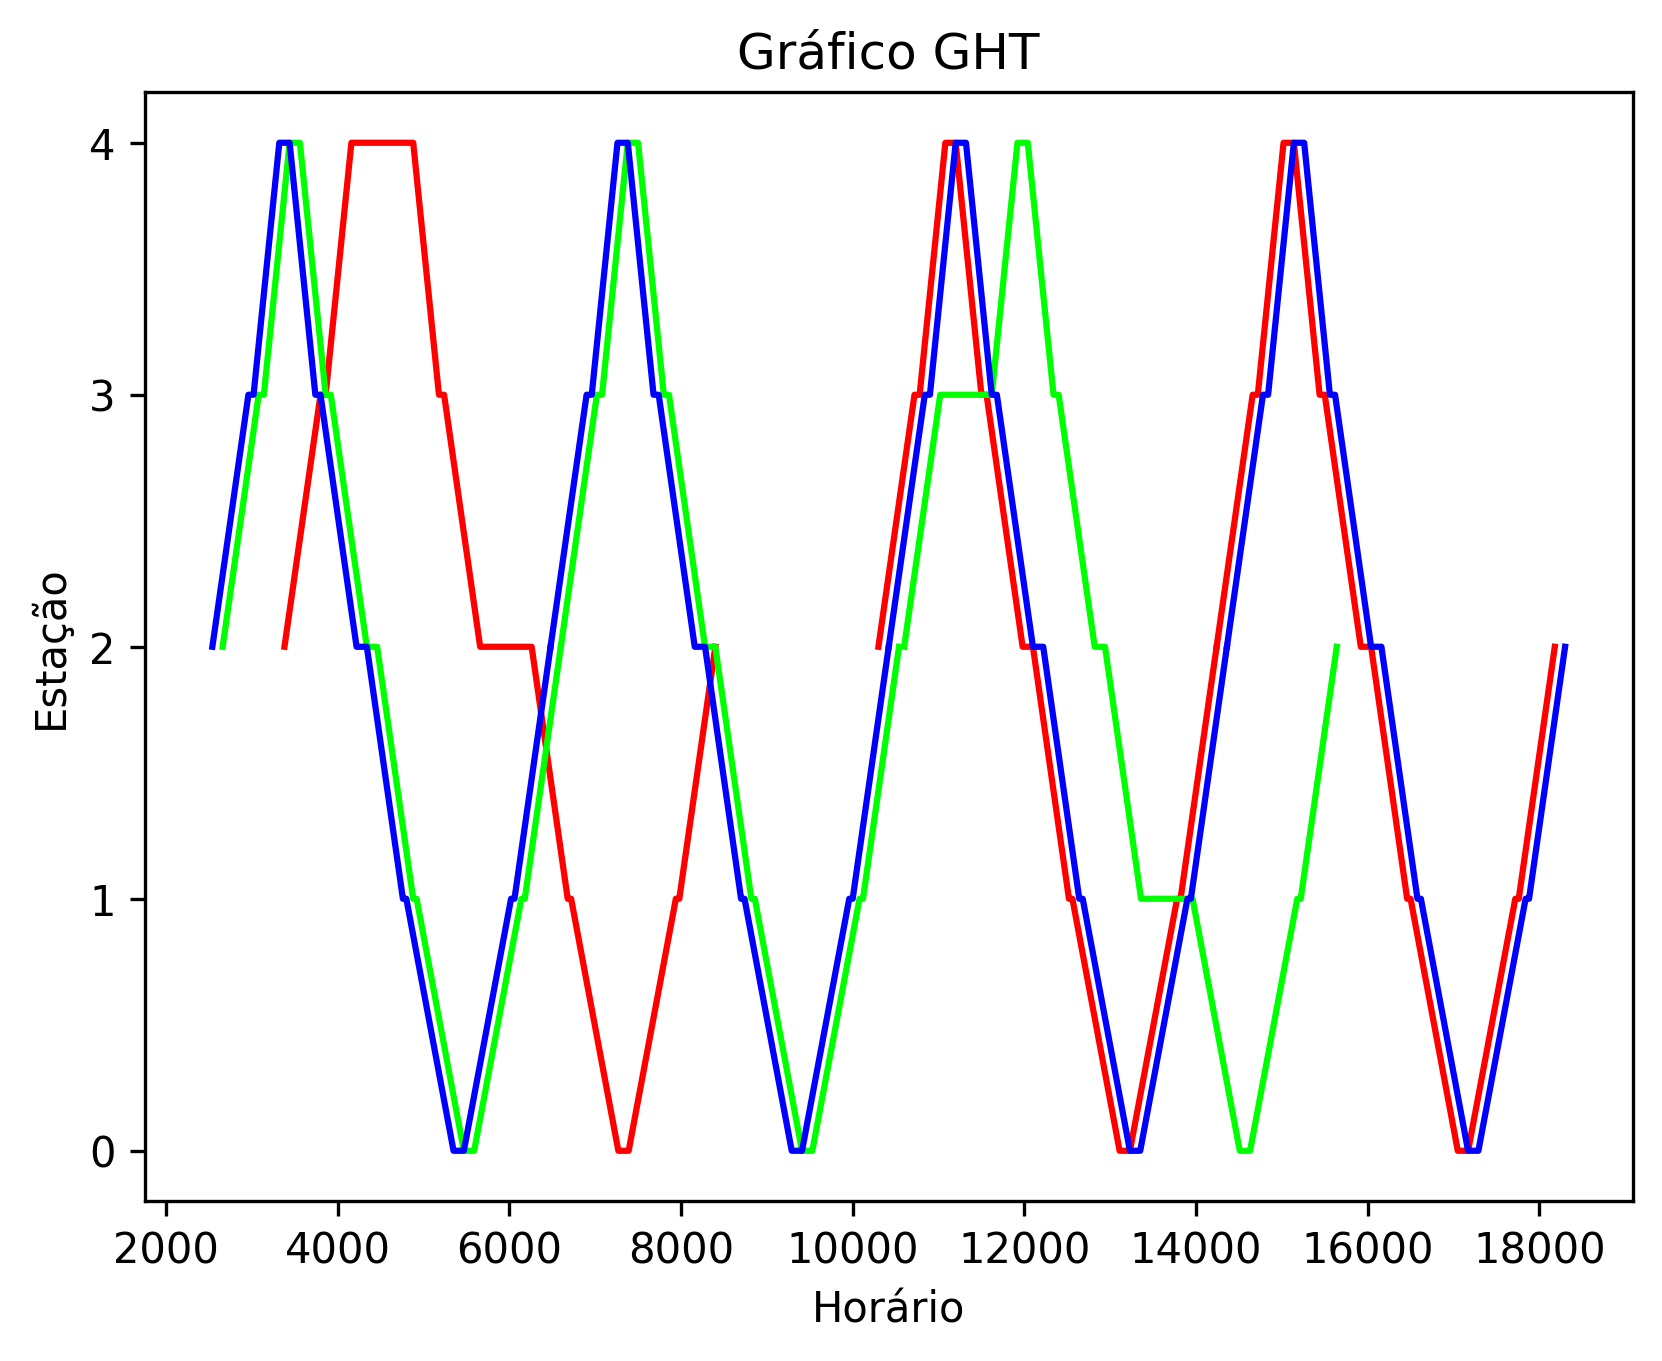
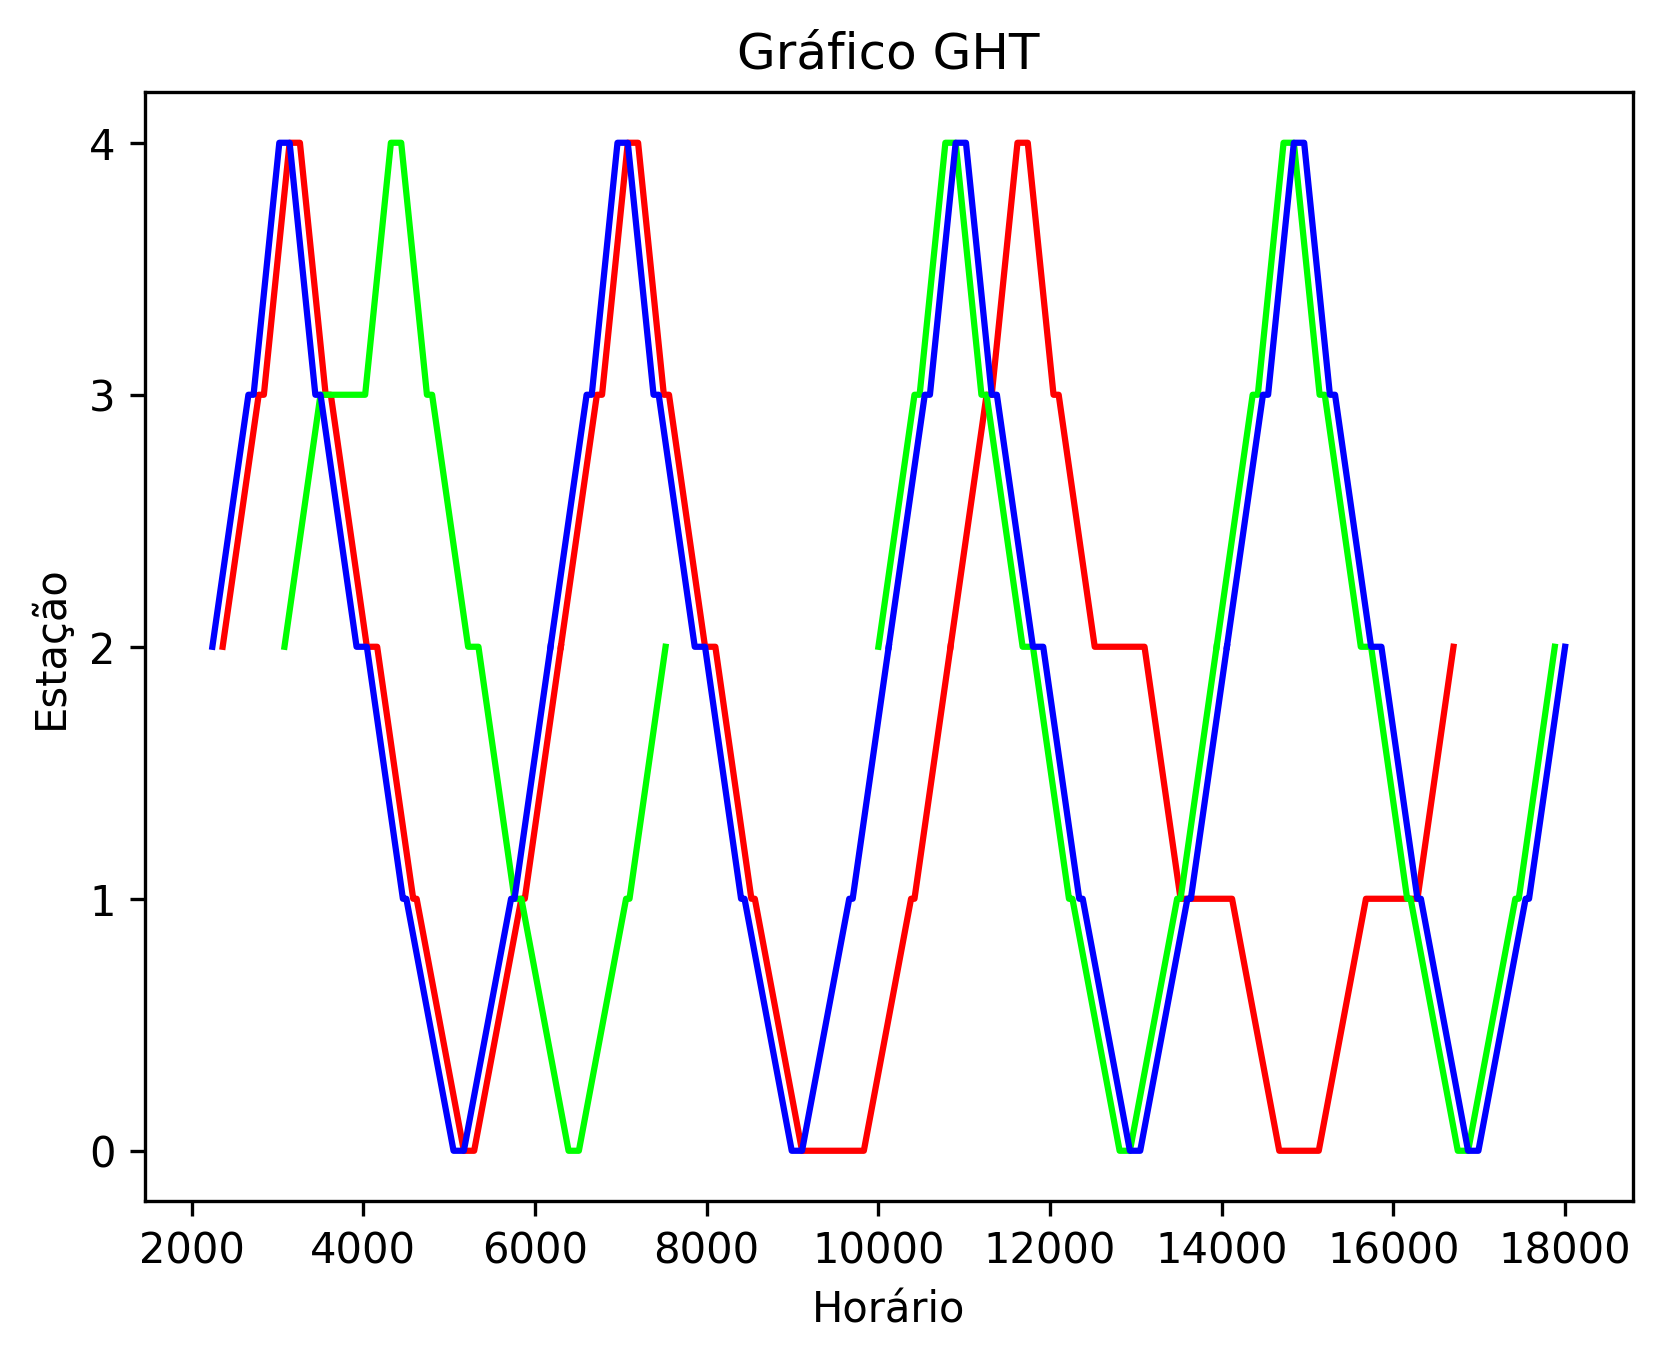
frist attempt at parallelizing

diff --git a/src/Combinations.cpp b/src/Combinations.cpp
@@ -7,10 +7,6 @@ Combinations::Combinations(Data &data)
     // reset directory that stores solutions for the instance
     reset_directory(data);
 
-    // create object of the model
-    Model model;
-    model.initialize(data);
-
     // start counting time
     auto start = chrono::high_resolution_clock::now();
 
@@ -23,7 +19,26 @@ Combinations::Combinations(Data &data)
     // generate all combinatinos
     nb_trains = data.get_nb_trains();                                  // calculate total number of possible combinations
     total_nb_combinations = pow(trips_combinations.size(), nb_trains);
-    generate_all_combinations(data, model);
+
+    // create threads that will generate combinations
+    vector<thread> threads;
+    nb_threads = 4;
+    unsigned long long interval = total_nb_combinations / nb_threads;
+    for (int i = 0; i < nb_threads; i++)
+    {
+        unsigned long long start = i * interval;
+        unsigned long long end;
+        if (i == nb_threads-1)
+            end = total_nb_combinations;
+        else
+            end = (i + 1) * interval;
+            threads.emplace_back(&Combinations::generate_all_combinations, this, std::ref(data), start, end, i);
+    }
+    // wait for all threads to finish
+    for (auto& t : threads)
+    {
+        t.join();
+    }
 
     // cout << endl;
     // for (int i = 0; i < all_combinations.size(); i++)
@@ -44,33 +59,45 @@ Combinations::Combinations(Data &data)
     // finish counting time
     auto end = chrono::high_resolution_clock::now();
     std::chrono::duration<double> time = end-start;
-    model.best_sol.computational_time = (time).count();
+    best_thread.best_sol.computational_time = (time).count();
 
     // get optimal solution
-    model.get_solution(data, true);
+    best_thread.get_solution(data, true);
     cout << endl << nb_feasible_combinations << "/" << total_nb_combinations << " were feasible combination(s) (" << std::fixed << std::setprecision(5) << (double(nb_feasible_combinations) / total_nb_combinations) * 100 << "%)" << endl;
 }
 
 void Combinations::reset_directory(Data &data)
 {
     // reseting past feasible solutions files for the instance
-    std::string full_path =  "combinations/feasible-combinations/" + data.get_instance_name();
-    if (std::filesystem::exists(full_path)) {
-        for (const auto& entry : std::filesystem::directory_iterator(full_path)) {
-            std::filesystem::remove_all(entry.path());
+    string full_path =  "combinations/feasible-combinations/" + data.get_instance_name();
+    if (filesystem::exists(full_path)) {
+        for (const auto& entry : filesystem::directory_iterator(full_path)) {
+            filesystem::remove_all(entry.path());
         }
     }
 }
 
-void Combinations::generate_all_combinations(Data &data, Model &model)
+void Combinations::generate_all_combinations(Data &data, unsigned long long int start, unsigned long long int end, int thread_id)
 {
+    // create object of the model for each thread
+    Model model_thread;
+    model_thread.initialize(data);
+
+    // initialize combination from start
     vector<int> current(nb_trains, 0);
-    for (unsigned long long count = 0; count < total_nb_combinations; count++)
+    unsigned long long aux = start;
+    for (int i = nb_trains-1; i >= 0; i--)
+    {
+        current[i] = aux % trips_combinations.size();
+        aux /= trips_combinations.size();
+    }
+
+    // create combinations on the interval
+    for (unsigned long long count = start; count < end; count++)
     {
         if (check_final_feasibility(data, current))
         {
-            cout << "Válida" << endl << endl;
-            all_combinations.push_back(current);
+            // all_combinations.push_back(current);
 
             // create vector that stores explicitly the current combination
             vector<vector<int>> routes_of_trains;
@@ -80,14 +107,16 @@ void Combinations::generate_all_combinations(Data &data, Model &model)
             }
 
             // reset the model and executes it with routes constraints
-            model.reset(data);
-            bool feasible = model.run_with_routes_constraints(data, routes_of_trains);
+            model_thread.reset(data);
+            bool feasible = model_thread.run_with_routes_constraints(data, routes_of_trains);
             if (feasible)
             {
+                mtx.lock();
                 nb_feasible_combinations++;
+                mtx.unlock();
             }
         }
-        cout << count << "/" << total_nb_combinations << " combination(s) tested!" << endl;
+        cout << count-start << "/" << end-start << " combination(s) tested! (Thread " << thread_id << ")" << endl;
 
         // go to next combination
         for (int i = nb_trains-1; i >= 0; i--)
@@ -97,20 +126,27 @@ void Combinations::generate_all_combinations(Data &data, Model &model)
             current[i] = 0;
         }
     }
+
+    mtx.lock();
+    if (model_thread.best_sol.obj_value < best_thread.best_sol.obj_value)
+    {
+        best_thread = model_thread;
+    }
+    mtx.unlock();
 }
 
 bool Combinations::check_final_feasibility (Data &data, vector <int> &current)
 {
-    for (int i = 0; i < current.size(); i++)
-    {
-        cout << "Train " << i << ": ";
-        for (int j = 0; j < trips_combinations[current[i]].size(); j++)
-        {
-            cout << trips_combinations[current[i]][j] << " ";
-        }
-        cout << endl;
-    }
-    cout << endl;
+    // for (int i = 0; i < current.size(); i++)
+    // {
+    //     cout << "Train " << i << ": ";
+    //     for (int j = 0; j < trips_combinations[current[i]].size(); j++)
+    //     {
+    //         cout << trips_combinations[current[i]][j] << " ";
+    //     }
+    //     cout << endl;
+    // }
+    // cout << endl;
 
     // verify whether number of trips is feasible
     for (int i = 0; i < current.size(); i++)

diff --git a/include/Combinations.hpp b/include/Combinations.hpp
@@ -6,6 +6,8 @@
 #include <cmath>
 #include <algorithm>
 #include <set>
+#include <thread>
+#include <mutex>
 
 class Combinations
 {
@@ -32,12 +34,16 @@ private:
     void reset_directory(Data &data);
 
     void generate_trips_combinations(Data &data);
-    void generate_all_combinations(Data &data, Model &model);
+    void generate_all_combinations(Data &data, unsigned long long int start, unsigned long long int end, int thread_id);
 
     bool check_trips_feasibility (Data &data, std::vector <int> &current);
     bool check_final_feasibility (Data &data, std::vector <int> &current);
 
     void add_to_prohibited_set(std::vector <int> invalid_combination);
+
+    Model best_thread;
+    std::mutex mtx;
+    int nb_threads;
 };
 
 #endif
